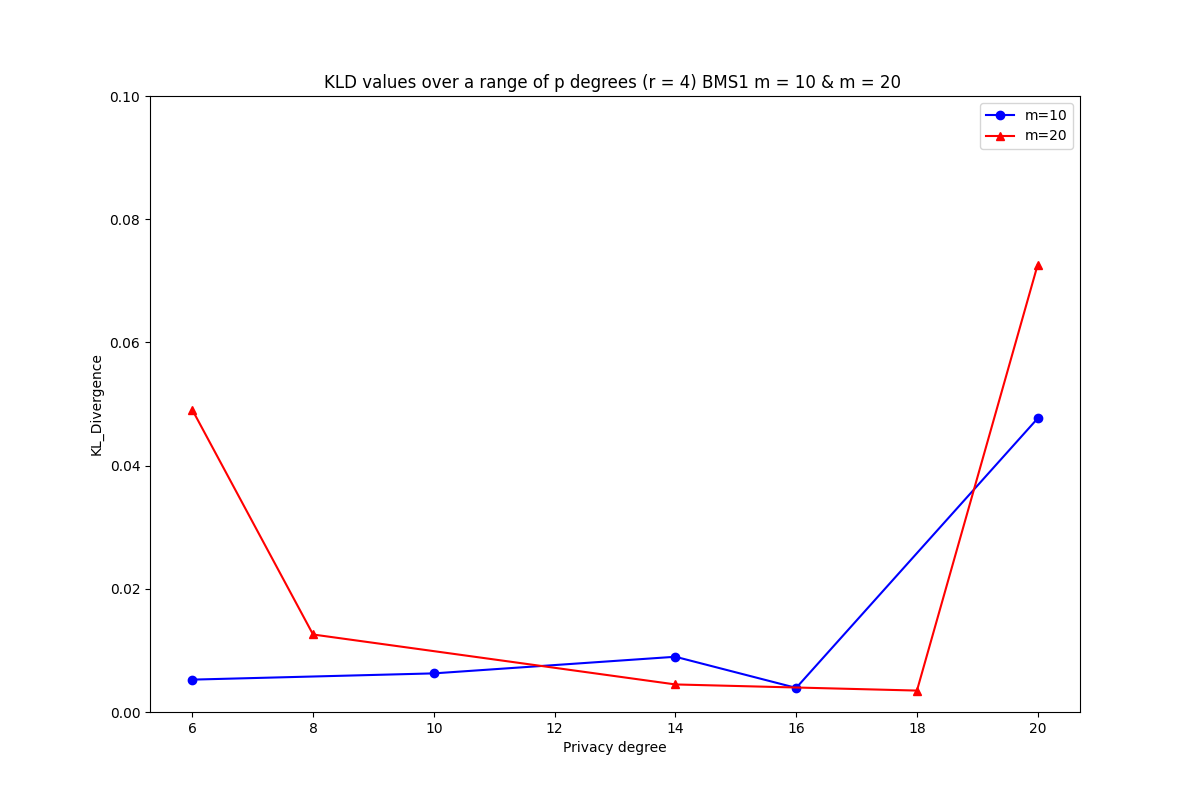
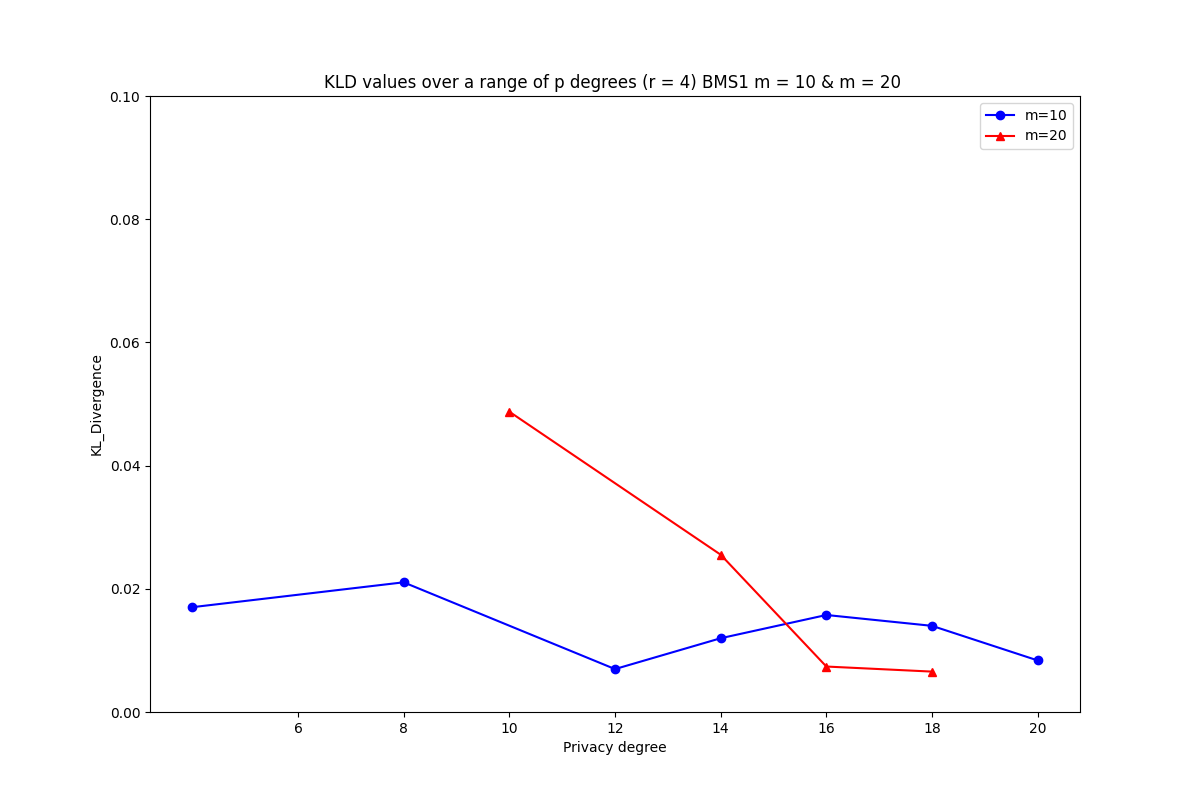
generated new plot files

diff --git a/cahd_update.py b/cahd_update.py
@@ -182,39 +182,15 @@ class CAHD:
                 for idx in selected_sensitive_items.index:
                     temp_hist[idx] -= selected_sensitive_items.loc[idx]
 
-                privacy_satisfied = False
-                for idx in temp_hist.keys():
-                    if temp_hist[idx] * self.p_degree > remaining:
-                        print(f"################################################\nPRIVACY SATISFIED temp_hist[idx]:{temp_hist[idx]}\n")
-                        privacy_satisfied = True
-                        st_index += 1
-                        break
+                # privacy_satisfied = False
+                # for idx in temp_hist.keys():
+                #     if temp_hist[idx] * self.p_degree > remaining:
+                #         print(f"################################################\nPRIVACY SATISFIED temp_hist[idx]:{temp_hist[idx]}\n")
+                #         privacy_satisfied = True
+                #         st_index += 1
+                #         break
 
-                if not privacy_satisfied:
-                    self.hist = temp_hist.copy()
-                    label_group = self.band_matrix.iloc[group].index
-                    id_sensitive_transaction = [i for i in id_sensitive_transaction if i not in label_group]
-
-                    group_dict.append(self.band_matrix.index[group])
-                    group_list.append(
-                        self.band_matrix.loc[list(self.band_matrix.index[group]), self.QID_items])
-
-                    sd_groups.append(selected_sensitive_items)
-
-                    self.band_matrix = self.band_matrix.drop(
-                        list(self.band_matrix.index[group]))
-
-                    remaining = len(self.band_matrix.index)
-                    # logger("REMAINING",remaining)
-
-                # check formation of group or the creation of the last group
-                th_max = max(temp_hist.values())
-                logger("TH_MAX of histogram", th_max)
-                logger("temp_hist", temp_hist)
-                # if th_max * self.p_degree > remaining - len(group):
-                #     st_index += 1
-
-                # else:
+                # if not privacy_satisfied:
                 #     self.hist = temp_hist.copy()
                 #     label_group = self.band_matrix.iloc[group].index
                 #     id_sensitive_transaction = [i for i in id_sensitive_transaction if i not in label_group]
@@ -229,6 +205,30 @@ class CAHD:
                 #         list(self.band_matrix.index[group]))
                 #
                 #     remaining = len(self.band_matrix.index)
+                    # logger("REMAINING",remaining)
+
+                # check formation of group or the creation of the last group
+                th_max = max(temp_hist.values())
+                # logger("TH_MAX of histogram", th_max)
+                # logger("temp_hist", temp_hist)
+                if th_max * self.p_degree > remaining - len(group):
+                    st_index += 1
+
+                else:
+                    self.hist = temp_hist.copy()
+                    label_group = self.band_matrix.iloc[group].index
+                    id_sensitive_transaction = [i for i in id_sensitive_transaction if i not in label_group]
+
+                    group_dict.append(self.band_matrix.index[group])
+                    group_list.append(
+                        self.band_matrix.loc[list(self.band_matrix.index[group]), self.QID_items])
+
+                    sd_groups.append(selected_sensitive_items)
+
+                    self.band_matrix = self.band_matrix.drop(
+                        list(self.band_matrix.index[group]))
+
+                    remaining = len(self.band_matrix.index)
             else:
                 st_index += 1
         # create the last group and update data structures

diff --git a/main_privacy_range.py b/main_privacy_range.py
@@ -8,12 +8,12 @@ from band_matrix import compute_band_matrix, logger
 
 if __name__ == "__main__":
     bm_size = 1000  # band matrix size
-    num_sensitive = 10  # number of sensitive items
+    num_sensitive = 20  # number of sensitive items
     # p_degree = 5  # the degree of privacy
     alpha = 3
     # [4, 6, 8, 10, 12, 14, 16, 18, 20]
-    # p_degree_list = [4, 6, 8, 10, 12, 14, 16, 18, 20]
-    p_degree_list = [4, 6]
+    p_degree_list = [4, 6, 8, 10, 12, 14, 16, 18, 20]
+    # p_degree_list = [4, 6]
 
     CAHD_execution_times = list()
     KLD_execution_times = list()
@@ -63,8 +63,8 @@ if __name__ == "__main__":
         # change the item dtype to str because the column names(item names) in band matrix are str
         # otherwise they dont match and KL divergence calculation fails
         sensitive_item = str(max(hist_item.keys(), key=(lambda k: hist_item[k])))
-        logger("Sensitive item, MAX VAL from histogram", sensitive_item)
-        logger("hist_item",hist_item )
+        # logger("Sensitive item, MAX VAL from histogram", sensitive_item)
+        # logger("hist_item",hist_item )
         # logger("DEBUG", df_square[df_square[sensitive_items] == 1].index.tolist())
         # logger("DEBUG 2", type(df_square[0].index[0]))
 
@@ -76,7 +76,7 @@ if __name__ == "__main__":
         KL_Divergence = KLDivergence.compute_KLDivergence_value(df_square, QID_select, cahd.SD_groups, cahd.group_list,
                                                                 sensitive_items, all_value)
 
-        print(f"\n{'-' * 20}\nKL_Divergence:{KL_Divergence}, Privacy degree: {privacy_degree},"
+        print(f"\n{'-' * 20}\nKL_Divergence Total: {KL_Divergence}, Privacy degree: {privacy_degree},"
               f"Sensitive Item: {sensitive_item}\nQID_select: {QID_select}\n{'-' * 20}\n")
 
         # append KLD values and respective calculation times
@@ -101,4 +101,4 @@ if __name__ == "__main__":
         dict_to_plot["CAHD_exec_time"].append(CAHD_execution_times[idx])
 
     df_to_plot = pd.DataFrame.from_dict(dict_to_plot)
-    df_to_plot.to_csv(f"./Data_to_plot/TESTnew_cahd_BMS1_seed_13_{bm_size}_{num_sensitive}.csv", index=False)
+    df_to_plot.to_csv(f"./Data_to_plot/BMS1_seed_42_{bm_size}_{num_sensitive}.csv", index=False)

diff --git a/band_matrix.py b/band_matrix.py
@@ -53,22 +53,23 @@ def compute_band_matrix(dataset=None, bm_size=1000, num_sensitive=1, plot=False)
     # sigma = RCM(sigma)
     # A'= permutation sigma applied to A
     # return A'
+    random_seed = 42
 
     # TODO: Add a zero padding method for the 'matrix slicing' so we can have bigger matrices then len(items)
     if dataset is not None and len(dataset) >= bm_size:
         # logger('Original df head', dataset.head())
-        # items = None # FIXME: this should probably go in the if else statements, rather than being global
+        items = None # FIXME: this should probably go in the if else statements, rather than being global
         # logger('Items', items[:10])
 
         # define a random seed for np.random operations
         # np.random.seed(seed=42)
-        np.random.seed(seed=13)
 
         random_column = None
         random_row = None
 
         # check if we need to add zero filler columns
         if len(dataset.columns) >= bm_size:
+            np.random.seed(random_seed)
             items = dataset.columns # FIXME: this may need to be converted to a list explicitly, check if it runs correctly
             # random permutation of rows and columns
             random_column = np.random.permutation(dataset.shape[1])[:bm_size]
@@ -78,6 +79,7 @@ def compute_band_matrix(dataset=None, bm_size=1000, num_sensitive=1, plot=False)
             # logger('Random rows', random_row[:10])
 
         else:
+            np.random.seed(random_seed)
             random_row = np.random.permutation(dataset.shape[0])
             dataset = dataset.iloc[random_row][:bm_size]
             dataset = dataset.reset_index()
@@ -95,7 +97,7 @@ def compute_band_matrix(dataset=None, bm_size=1000, num_sensitive=1, plot=False)
             dataset = pd.concat([dataset, df_to_add], axis=1)
 
             # shuffle rows and cols
-            np.random.seed(seed=42)
+            np.random.seed(random_seed)
             items = dataset.columns
 
             random_column = np.random.permutation(dataset.shape[1])

diff --git a/KLDivergence.py b/KLDivergence.py
@@ -124,6 +124,7 @@ def compute_KLDivergence_value(band_matrix, QID_select, SD_groups, group_list, s
     #         temp = 0
     #     KL_Divergence = KL_Divergence + temp
     for s_item in sensitive_items:
+        temp_KLD = 0
         for value in all_combinations_C:
             actsc = compute_act_s_in_c(band_matrix, QID_select, value, s_item)
             estsc = compute_est_s_in_c(band_matrix, SD_groups,
@@ -136,7 +137,10 @@ def compute_KLDivergence_value(band_matrix, QID_select, SD_groups, group_list, s
                 temp = actsc * np.log(actsc / estsc)
             else:
                 temp = 0
-            KL_Divergence = KL_Divergence + temp
-        print(f"KLDivergence: {KL_Divergence} Sensitive Item: {s_item}")
+
+            # temp_KLD is just for printing KLD value per sensitive item
+            temp_KLD += temp
+            KL_Divergence += temp
+        print(f"KLDivergence: {temp_KLD} Sensitive Item: {s_item}")
 
     return KL_Divergence

diff --git a/plot_general.py b/plot_general.py
@@ -3,8 +3,8 @@ import matplotlib.pyplot as plt
 from band_matrix import compute_band_matrix, logger
 
 if __name__ == "__main__":
-    BMS1_m10_privacy_ranged_df = pd.read_csv("./Data_to_plot/BMS1_1000_10.csv")
-    BMS1_m20_privacy_ranged_df = pd.read_csv("./Data_to_plot/BMS1_1000_20.csv")
+    BMS1_m10_privacy_ranged_df = pd.read_csv("./Data_to_plot/BMS1_seed_13_1000_10.csv")
+    BMS1_m20_privacy_ranged_df = pd.read_csv("./Data_to_plot/BMS1_seed_13_1000_20.csv")
 
     BMS1_p10_sensitive_ranged = pd.read_csv("./Data_to_plot/BMS1_1000_10_num_sensitive_change.csv")
     BMS1_p20_sensitive_ranged = pd.read_csv("./Data_to_plot/BMS1_1000_20_num_sensitive_change.csv")
